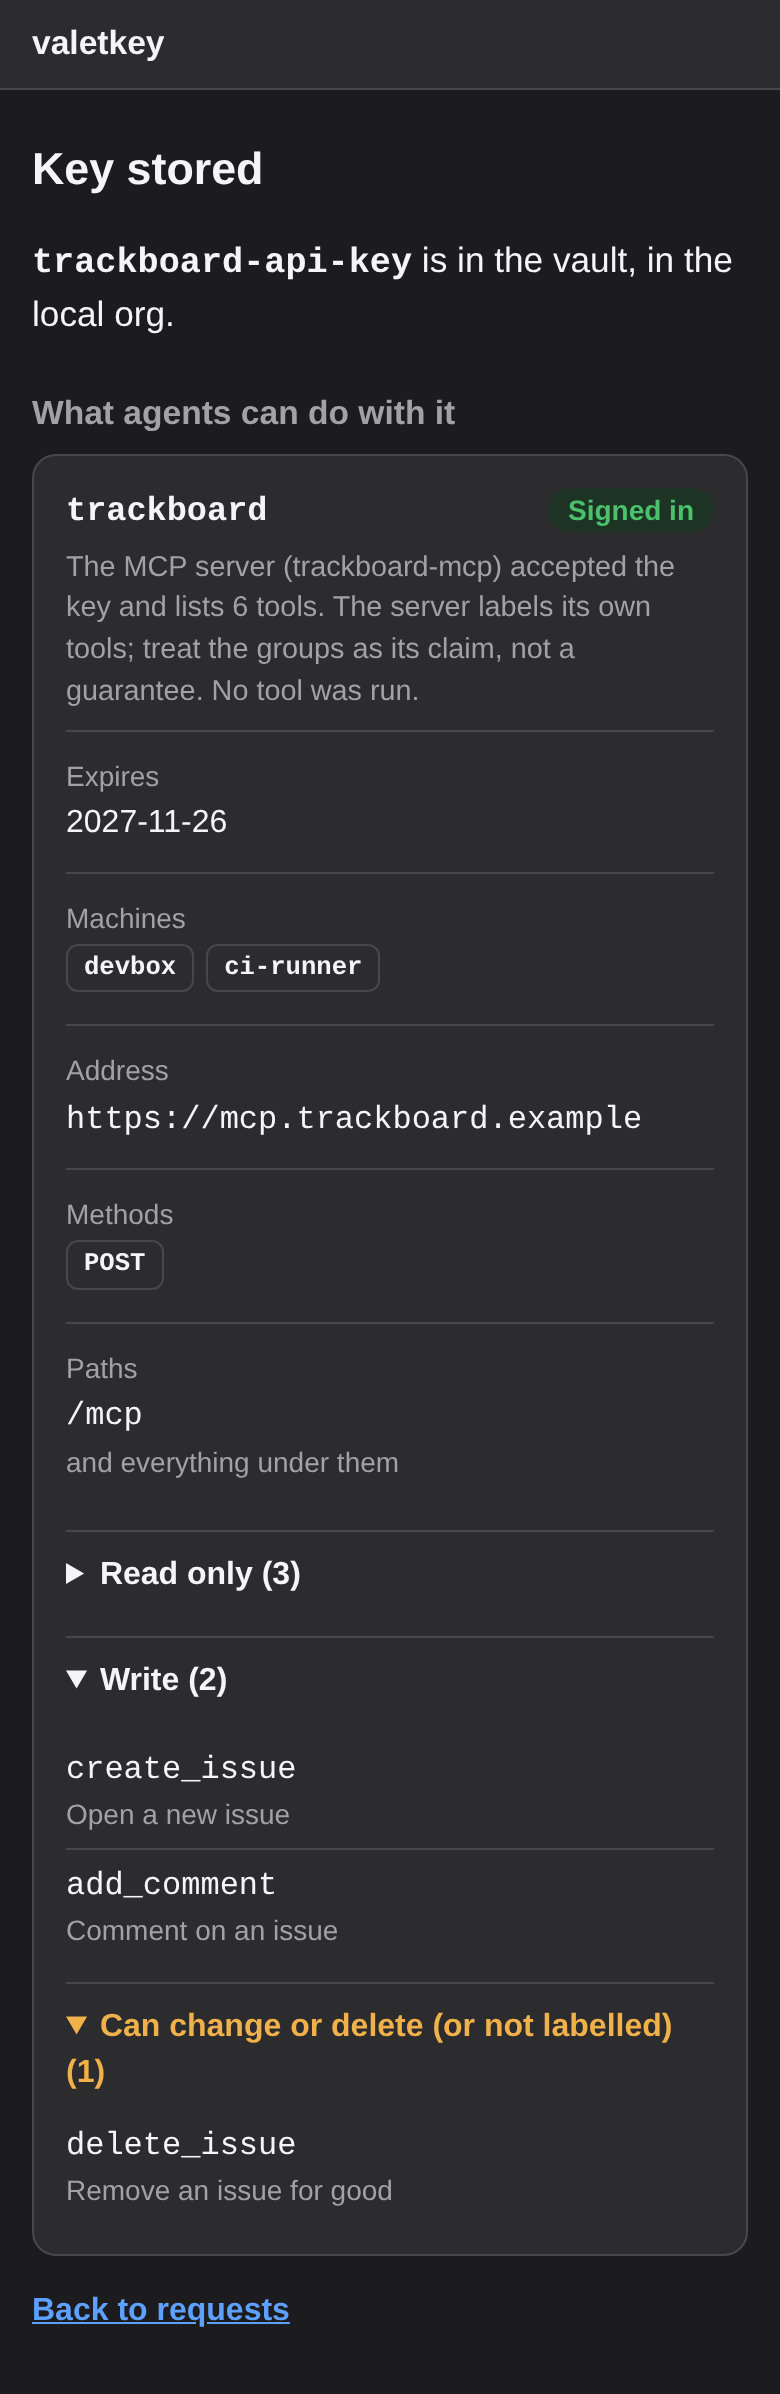
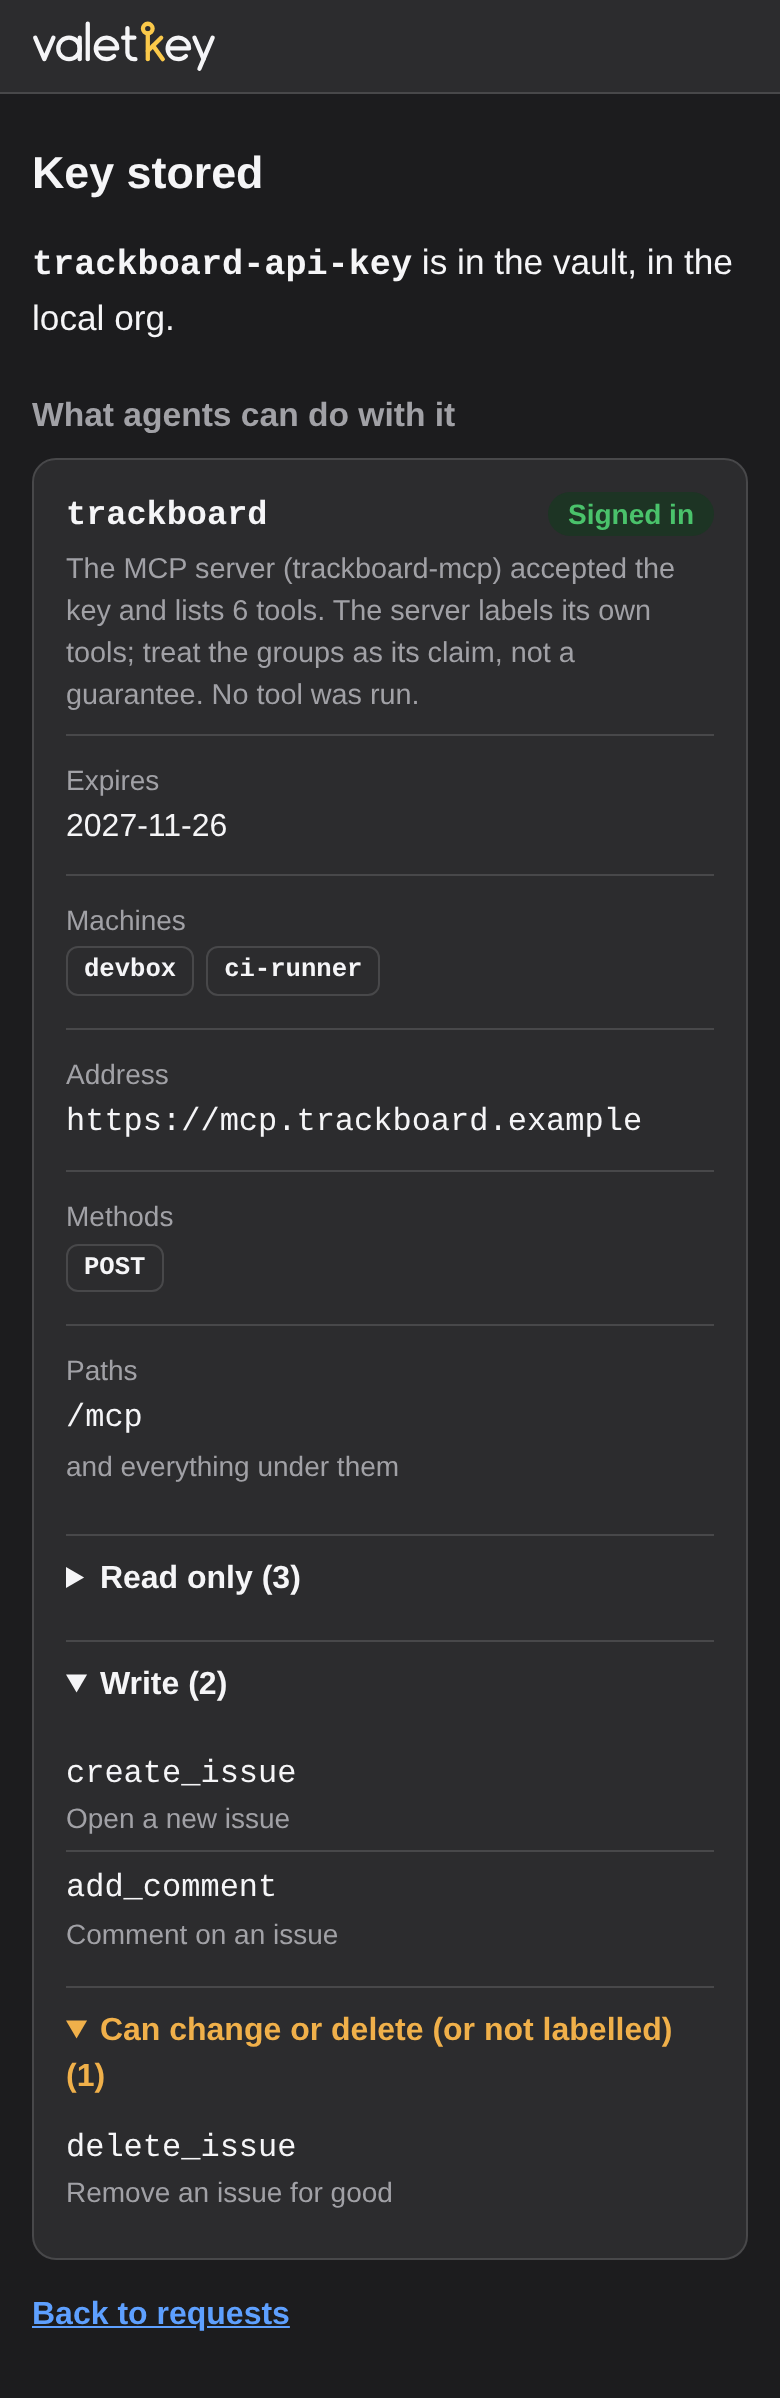
README and page header use the wordmark; screenshots retaken

diff --git a/broker/entry-page.html b/broker/entry-page.html
@@ -8,18 +8,19 @@
 <style>
   :root { color-scheme: light dark; --fg: #1d1d1f; --bg: #f5f5f7; --card: #fff; --muted: #6e6e73;
           --line: #d2d2d7; --accent: #0a5cd5; --warn: #9a5b00; --ok: #1a7f37;
-          --warn-bg: #fdf3e1; --ok-bg: #e6f4ea; --bad: #b42318; --bad-bg: #fdecea; }
+          --warn-bg: #fdf3e1; --ok-bg: #e6f4ea; --bad: #b42318; --bad-bg: #fdecea; --logo-key: #c98a00; }
   @media (prefers-color-scheme: dark) {
     :root { --fg: #f5f5f7; --bg: #1c1c1e; --card: #2c2c2e; --muted: #a1a1a6; --line: #48484a;
-            --accent: #5ea0ff; --warn: #f0b04a; --ok: #4ac26b; --warn-bg: #3a2e1a; --ok-bg: #1d3424; --bad: #ff8a80; --bad-bg: #3d1f1d; }
+            --accent: #5ea0ff; --warn: #f0b04a; --ok: #4ac26b; --warn-bg: #3a2e1a; --ok-bg: #1d3424; --bad: #ff8a80; --bad-bg: #3d1f1d; --logo-key: #fbc94a; }
   }
   body { margin: 0; background: var(--bg); color: var(--fg);
          font: 16px/1.45 -apple-system, BlinkMacSystemFont, "Segoe UI", Roboto, sans-serif; }
   img { max-width: 100%; height: auto; }
   main { max-width: 40rem; margin: 0 auto; padding: 16px; }
-  /* Every page opens with the same bar: the name, on the page's left edge. */
+  /* Every page opens with the same bar: the wordmark, on the page's left edge. */
   .top { padding: 10px 16px; background: var(--card); border-bottom: 1px solid var(--line); }
-  .top div { max-width: 40rem; margin: 0 auto; font-weight: 600; font-size: 1.05rem; }
+  .top div { max-width: 40rem; margin: 0 auto; }
+  .top svg { display: block; height: 26px; }
   h1 { font-size: 1.4rem; margin: 0.5rem 0 1rem; }
   h2 { font-size: 1.05rem; margin: 1.5rem 0 0.5rem; color: var(--muted); }
   ul { list-style: none; padding: 0; margin: 0; }
@@ -191,7 +192,8 @@
 </style>
 </head>
 <body>
-<header class="top"><div>valetkey</div></header>
+<!-- The wordmark is docs/images/valetkey-wordmark-light.svg, inline so it takes the page's colours. -->
+<header class="top"><div><svg xmlns="http://www.w3.org/2000/svg" viewBox="-6 -73 343 97" role="img" aria-label="valetkey" fill="none" stroke-width="8" stroke-linecap="round" stroke-linejoin="round"><g transform="translate(0,0)" stroke="currentColor"><path d="M0,-40 L17,0 L34,-40"/></g><g transform="translate(43,0)" stroke="currentColor"><path d="M40,-20 A20,20 0 1 0 0,-20 A20,20 0 1 0 40,-20"/><path d="M40,-40 V0"/></g><g transform="translate(98,0)" stroke="currentColor"><path d="M0,-66 V0"/></g><g transform="translate(113,0)" stroke="currentColor"><path d="M0,-20 H40 A20,20 0 1 0 34.1,-5.9"/></g><g transform="translate(164,0)" stroke="currentColor"><path d="M8,-58 V-12 A12,12 0 0 0 20,0 H23"/><path d="M0,-40 H21"/></g><g transform="translate(210,0)" stroke="var(--logo-key)"><path d="M9,-57 A9,9 0 1 0 -9,-57 A9,9 0 1 0 9,-57"/><path d="M0,-48 V0"/><path d="M0,-15 L25,-40"/><path d="M10,-25 L28,0"/></g><g transform="translate(247,0)" stroke="currentColor"><path d="M0,-20 H40 A20,20 0 1 0 34.1,-5.9"/></g><g transform="translate(297,0)" stroke="currentColor"><path d="M0,-40 L17,0"/><path d="M34,-40 L9.35,18"/></g></svg></div></header>
 <main>
 <h1>Credential entry</h1>
 {{result}}

diff --git a/docs/development.md b/docs/development.md
@@ -95,6 +95,10 @@ The icon (`valetkey-icon.png`, `valetkey-icon-512.png`) was generated with ChatG
 from the brief "a close-up robotic valet in a cap, holding a key beside its head", then cut out of
 its background and resized.
 
+The wordmark (`valetkey-wordmark-light.svg` for a light page, `-dark.svg` for a dark one) is drawn by
+hand as strokes, with no font; its k is a key. The same paths are inline in
+`broker/entry-page.html`, so change both together.
+
 ## Releasing
 
 1. Set the new version in `VERSION`, `CLIENT_VERSION` in `client/broker`, the `tag:` line of the three

diff --git a/README.md b/README.md
@@ -2,7 +2,12 @@
   <img src="docs/images/valetkey-icon.png" width="128" height="128" alt="valetkey icon: a smiling robot valet in a green cap holds up a gold key, on a blue tile">
 </p>
 
-<p align="center"><b>valetkey</b></p>
+<p align="center">
+  <picture>
+    <source media="(prefers-color-scheme: dark)" srcset="docs/images/valetkey-wordmark-dark.svg">
+    <img src="docs/images/valetkey-wordmark-light.svg" width="220" alt="valetkey">
+  </picture>
+</p>
 
 <p align="center"><b>Your agents use the key, but they never see it.</b></p>
 
